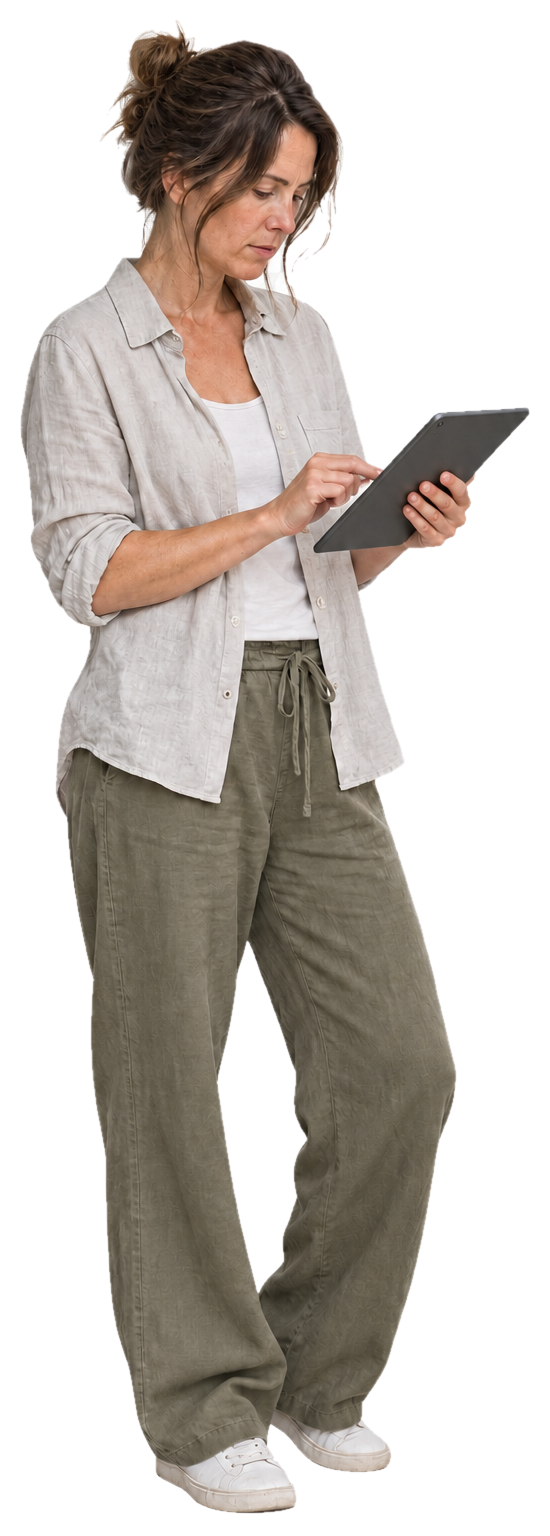
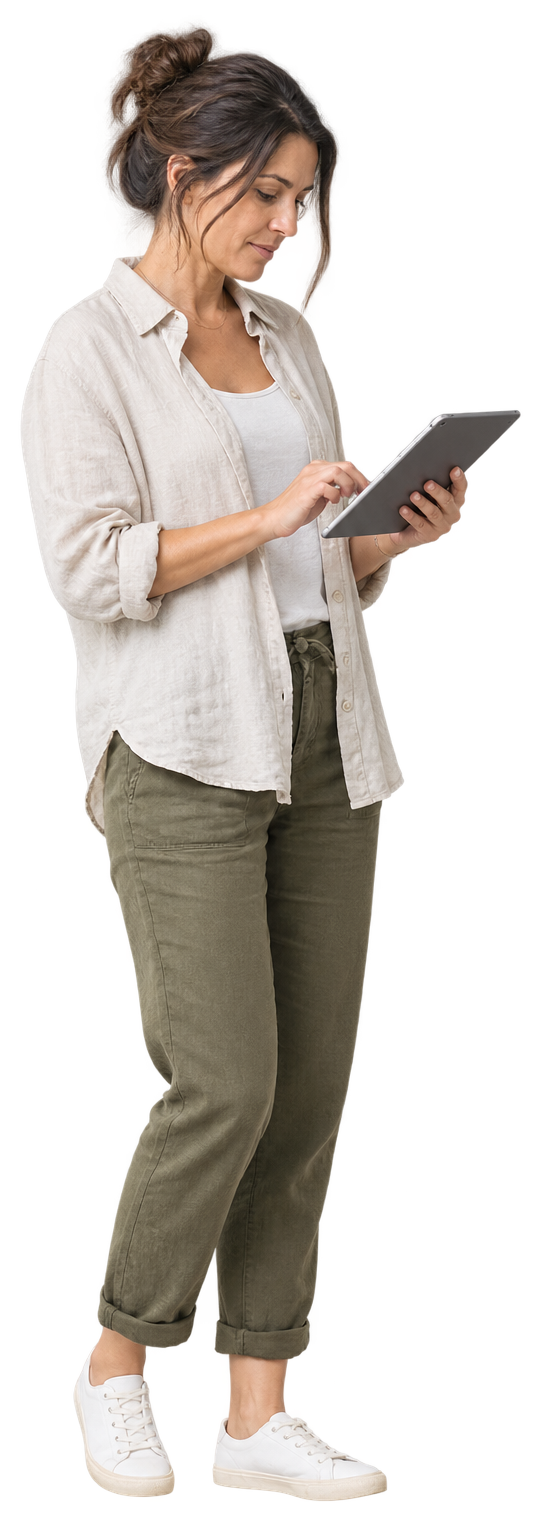
WIP: sustituye la foto del hero y recorte orgánico (en revisión)
Nueva fotografía (transparencia real, verificada). El recorte de las
piernas ahora usa la misma silueta orgánica (border-radius) que la
forma de fondo, en vez de un rectángulo — así no aparece ninguna
línea de corte recta dentro de la forma; las piernas se difuminan
siguiendo la curva real del borde inferior.

Pendiente de aprobación — no desplegar todavía.

diff --git a/app/page.tsx b/app/page.tsx
@@ -118,7 +118,7 @@ export default function Home() {
           </div>
 
           <div
-            className="animar-entrada relative mx-auto w-full max-w-sm lg:max-w-none"
+            className="animar-entrada relative mx-auto h-80 w-full max-w-sm sm:h-96 lg:h-[583px] lg:max-w-none"
             style={{ animationDelay: "200ms" }}
           >
             {/* Forma orgánica de marca, CSS puro (border-radius asimétrico), detrás del recorte de la persona — degradado violeta profundo → azul eléctrico → lavanda. */}
@@ -131,23 +131,23 @@ export default function Home() {
               }}
             />
 
-            {/* Recorte a la altura de medio muslo (contenedor de altura fija +
-                overflow-hidden) en todas las resoluciones — la altura del
-                contenedor es la MISMA que antes (para no agrandar la forma
-                violeta, que se dimensiona a partir de ella); lo que cambia es
-                el ancho de la persona, más grande, así el recorte "sube" de
-                forma natural. La imagen ya viene recortada a su encuadre real
-                (sin márgenes transparentes), así el % de ancho corresponde a
-                ella y no a espacio vacío. */}
-            <div className="relative mx-auto h-80 overflow-hidden sm:h-96 lg:h-[583px]">
+            {/* La persona se recorta con la MISMA silueta orgánica que la forma
+                de detrás (idéntico tamaño, posición y border-radius), en vez de
+                un rectángulo — así las piernas "desaparecen" siguiendo la curva
+                real del borde inferior de la forma, sin ninguna línea de corte
+                recta visible dentro. */}
+            <div
+              className="absolute top-1/2 left-1/2 h-[110%] w-[92%] -translate-x-1/2 -translate-y-1/2 overflow-hidden"
+              style={{ borderRadius: "63% 37% 41% 59% / 55% 45% 55% 45%" }}
+            >
               <Image
                 src="/images/molnip-owner-final.png"
                 alt="Una profesional revisando una recomendación de Molnip en su tablet"
-                width={550}
-                height={1536}
+                width={541}
+                height={1531}
                 priority
                 unoptimized
-                className="relative mx-auto h-auto w-[61%] drop-shadow-2xl sm:w-[54%]"
+                className="relative mx-auto mt-2 h-auto w-[66%] drop-shadow-2xl sm:w-[58%]"
               />
             </div>
 
